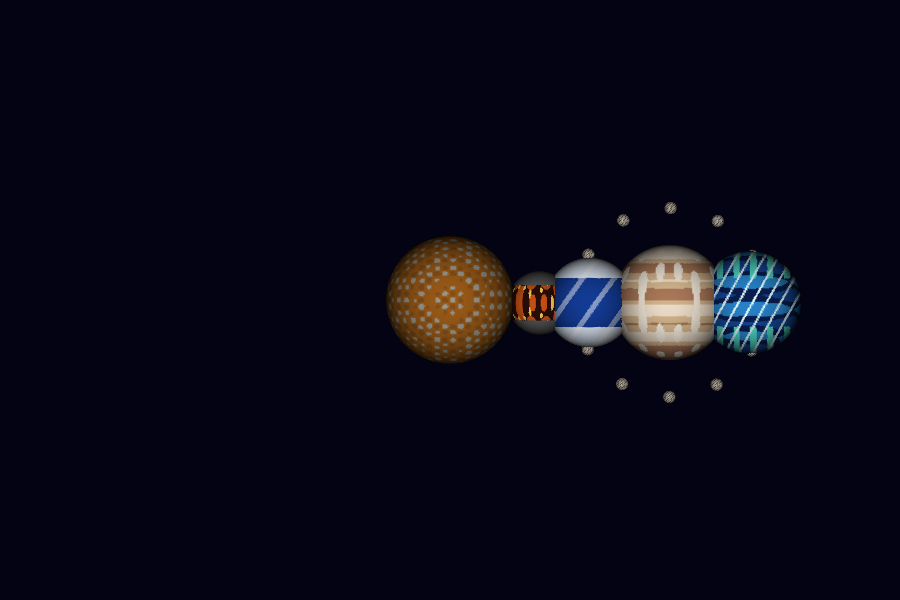
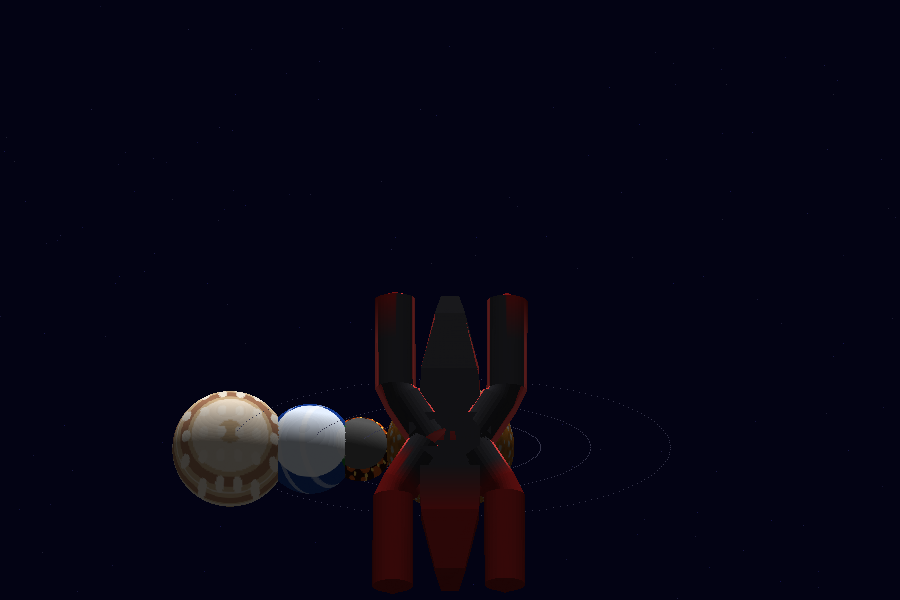
README

diff --git a/proyecto3/README.md b/proyecto3/README.md
@@ -1,206 +1,84 @@
-# 🌌 **Laboratorio 5 **
+# 🚀 Proyecto 3 — Space Travel
 
-Este proyecto implementa un **software renderer** escrito completamente en Rust, capaz de generar un **sistema solar procedural** utilizando **únicamente shaders de color** (sin texturas ni materiales).
-Cada planeta, estrella, luna y anillo es generado mediante funciones matemáticas, ruido y capas de color aplicadas directamente en el fragment shader.
-
-Incluye animaciones, rotación, órbitas, controles manuales, captura de pantalla y paralelización para mejorar el desempeño.
+Este repo desarrolla un **software renderer completo en Rust** que combina un sistema solar procedural con una **nave que actúa como cámara**. La simulación usa únicamente shaders de color, sin texturas externas, y la cámara siempre sigue la dirección real de la nave para que sientas que estás pilotando el vehículo entre los planetas.
 
 ---
 
-# 🎥 Video demostrativo
+## 🎥 Video demostrativo
 
-👉 **[https://youtu.be/i75bjKmrTxE](https://youtu.be/i75bjKmrTxE)**
-
----
-
-# ⭐ Características del proyecto
-
-## ✔ Planetas requeridos
-
-* 🌞 **Sol**
-* 🌍 **Planeta Rocoso**
-* 🪐 **Gigante Gaseoso**
-
-## ✔ Planetas extra (30 pts)
-
-* 🌋 **Planeta Volcánico – “Vulkar”**
-* 🌊 **Planeta Azul Oceánico – “Aquahelion”**
-* ❄ **Gigante de Hielo – “Glaciaron”**
-
-## ✔ Luna (20 pts)
-
-* 🌘 **Lunaris** orbitando el planeta rocoso.
-
-## ✔ Sistema de anillos (20 pts)
-
-* 🪐 **Jovarik**, el gigante gaseoso, contiene **12 rocas** orbitando como anillos.
+👉 **[https://youtu.be/KwKRuNuw6I8](https://youtu.be/KwKRuNuw6I8)**
 
 ---
 
-# 🎨 Complejidad de shaders
+## 🌌 ¿Qué se renderiza?
 
-Cada planeta se generó mediante **capas matemáticas de color**, logrando entre **3 y 5 capas**, lo que lo coloca en la categoría de **40 puntos (máxima complejidad)**.
+![Sistema solar](planetas.png)
 
-Ejemplos de capas utilizadas:
+* **Sol** y varios planetas con color procedimental (planeta rocoso, volcánico, gaseoso, luna e ice-giant).
+ * Cada cuerpo rota y orbita con funciones trigonométricas; el sistema mantiene sus movimientos automáticos.
+ * Se añaden **órbitas dibujadas**, un **starfield procedural** y un modelo OBJ para la nave.
 
-* Ruido fractal animado
-* Gradiente radial
-* Bandas atmosféricas
-* Patrones sinusoidales
-* Pulsos de fuego (en Vulkar)
-* Líneas diagonales dinámicas (Aquahelion)
-* Degradado frío con bandas verticales (Gigante de Hielo)
+## 🎮 Experiencia de “space travel”
 
----
+* La **nave define la cámara**: su `forward` determina el `eye`/`center` del look-at y siempre se muestra en el tercio inferior de la pantalla.
+* of controls: `W/S` aceleran/frenan la nave, `A/D` giran, `Shift` boost, `Up/Down` ajustan la distancia de cámara, `P` pausa, `O` toma capturas y `Esc` cierra.
+* Los planetas son **estáticos para las teclas**; únicamente orbitan y rotan en el tiempo. Todo movimiento de usuario controla al vehículo espacial.
 
-# 🖼 Capturas del sistema
+## 📐 Pipeline y arquitectura
 
-Todas las imágenes están generadas desde el renderer:
+1. **Vertex shader** paralelizado (Rayon) aplica transformaciones de modelo + cámara.
+2. **Primitive assembly** junta triángulos del OBJ.
+3. **Rasterización** calcula fragmentos con coordenadas barycentric.
+4. **Fragment shader** pinta cada triángulo en color procedimental (capas de ruido, gradientes y bandas).
+5. **Z-buffer + framebuffer** manejan profundidad y dibujo.
+6. **Cámara** construida con look-at; scroll `Up/Down` mueve el eye hacia adelante/atrás.
 
-| Nombre                                    | Imagen                        |
-| ----------------------------------------- | ----------------------------- |
-| **Sol**                                   | `sol.png`                     |
-| **Planeta Rocoso (Terranis)**             | `planeta_rocoso.png`          |
-| **Luna (Lunaris)**                        | `luna.png`                    |
-| **Planeta Volcánico (Vulkar)**            | `lava.png`                    |
-| **Planeta Azul (Aquahelion)**             | `planeta_azul.png`            |
-| **Gigante Gaseoso con Anillos (Jovarik)** | `planeta_gaseoso_anillos.png` |
-| **Sistema completo**                      | `planetas_general.png`        |
+## 🧭 Controles
 
----
+| Tecla | Acción |
+| ----- | ------ |
+| `W` / `S` | Acelera / frena la nave |
+| `A` / `D` | Gira la nave (Yaw) |
+| `Shift` | Boost de aceleración |
+| `Up` / `Down` | Acerca / aleja la cámara (mantiene look-at) |
+| `P` | Pausa / reanuda la simulación |
+| `O` | Captura PNG (`screenshot_X.png`) |
+| `Esc` | Cierra la aplicación |
 
-# 🛰 Video de Orbitas, Rotación y Toma de Capturas
+## 🔧 Cómo compilar y ejecutar
 
-Mira el video completo del funcionamiento aquí:
-👉 **[https://youtu.be/i75bjKmrTxE](https://youtu.be/i75bjKmrTxE)**
-
----
-
-# 🎮 Controles del sistema
-
-### 🚀 Movimiento de cámara
-
-| Tecla | Acción                      |
-| ----- | --------------------------- |
-| **W** | Mover cámara hacia arriba   |
-| **S** | Mover cámara hacia abajo    |
-| **A** | Mover cámara a la izquierda |
-| **D** | Mover cámara a la derecha   |
-
----
-
-### 🪐 Selección de planetas
-
-| Tecla | Selecciona                    |
-| ----- | ----------------------------- |
-| **1** | Sol                           |
-| **2** | Vulkar (lava)                 |
-| **3** | Terranis (rocoso)             |
-| **4** | Lunaris (luna)                |
-| **5** | Jovarik (gaseoso con anillos) |
-| **6** | Glaciaron (gigante de hielo)  |
-
----
-
-### 🔁 Rotar planeta seleccionado
-
-| Tecla | Acción     |
-| ----- | ---------- |
-| **Z** | Rotación − |
-| **X** | Rotación + |
-
----
-
-### 🔍 Cambiar escala del planeta seleccionado
-
-| Tecla | Acción           |
-| ----- | ---------------- |
-| **C** | Aumentar tamaño  |
-| **V** | Disminuir tamaño |
-
----
-
-### ⏸ Pausar / Reanudar animación
-
-| Tecla | Acción                   |
-| ----- | ------------------------ |
-| **P** | Toggle de pausa/reanudar |
-
----
-
-### 📸 Captura de pantalla
-
-| Tecla | Acción                                  |
-| ----- | --------------------------------------- |
-| **O** | Guardar captura como `screenshot_X.png` |
-
----
-
-# ⚙ Cómo correr el proyecto
-
-Requisitos:
-
-* Rust instalado
-* Cargo instalado
-
-Ejecutar:
+Necesitas Rust (cargo) instalado. Corre en modo release para un rendimiento decente:
 
 ```bash
 cargo run --release
 ```
 
-(Muy importante usar `--release`, ya que el renderer utiliza **Rayon** para paralelizar y acelerar el proceso).
+El renderer usa `rayon` para paralelizar los stages del pipeline y mantener un frame rate jugable.
 
----
-
-# 📁 Estructura del proyecto
+## 📁 Estructura clave
 
 ```
 /src
- ├── main.rs           # Lógica principal del sistema solar
- ├── shaders.rs        # Shaders procedurales de colores
- ├── fragment.rs       # Estructura de fragmentos
- ├── framebuffer.rs    # Framebuffer y Z-buffer
- ├── triangle.rs       # Rasterización
- ├── vertex.rs         # Vertex shader
- ├── screenshot.rs     # Utilidad para guardar imágenes PNG
+ ├─ main.rs        # Lógica del sistema solar + cámara + ship
+ ├─ shaders.rs     # Shaders procedurales por tipo de planeta/nave
+ ├─ triangle.rs    # Rasterización con barycentric
+ ├─ framebuffer.rs # Framebuffer + Z-buffer
+ ├─ line.rs        # Dibujo auxiliar (no usado en runtime)
+ ├─ vertex.rs      # Representación de vértices y colores
+ ├─ obj.rs         # Loader OBJ / generación de arrays de vértices
+ └─ screenshot.rs  # Guardado de capturas en PNG
+
 /assets/models
- └── sphere.obj        # Modelo base para todos los planetas
+ ├─ sphere.obj     # Geometría base para planetas
+ └─ ship.obj       # Modelo de la nave (camara)
 ```
 
----
+## 🧠 Diseño técnico adicional
 
-# 🧠 Explicación técnica del render
+* La cámara (look-at) usa `forward = ship.forward()` y mantiene el mismo yaw que mueve al modelo.
+* El sistema solar se dibuja centrado en el origen, de modo que la nave solo necesita moverse con su física para navegar entre los planetas.
+* El starfield y las órbitas se recalculan por frame, dando sensación de profundidad.
 
-El pipeline implementado:
+## 👤 Autor
 
-1. **Vertex Shader**
-   Transforma cada vértice aplicando matriz de modelo y animaciones.
-
-2. **Primitive Assembly**
-   Agrupa vértices en triángulos.
-
-3. **Rasterización**
-   Conversión del triángulo a fragmentos individuales (pixel shader).
-
-4. **Fragment Shader**
-   Combina capas de color, funciones matemáticas y animaciones para generar el resultado final.
-
-5. **Z-Buffer**
-   Evita que los planetas se sobreescriban incorrectamente.
-
-6. **Paralelización con Rayon**
-
-   * Vertex shader en paralelo
-   * Fragmentos en paralelo
-     Aumentando significativamente la velocidad.
-
----
-
-# 👤 Autor
-
-**Esteban Cárcamo**
-UVG
-Laboratorio de Gráficas por Computadora
-
----
+*Laboratorio 3 y 4 fusionados en el Proyecto 3 “Space Travel” (sistema solar + nave/cámara).*
